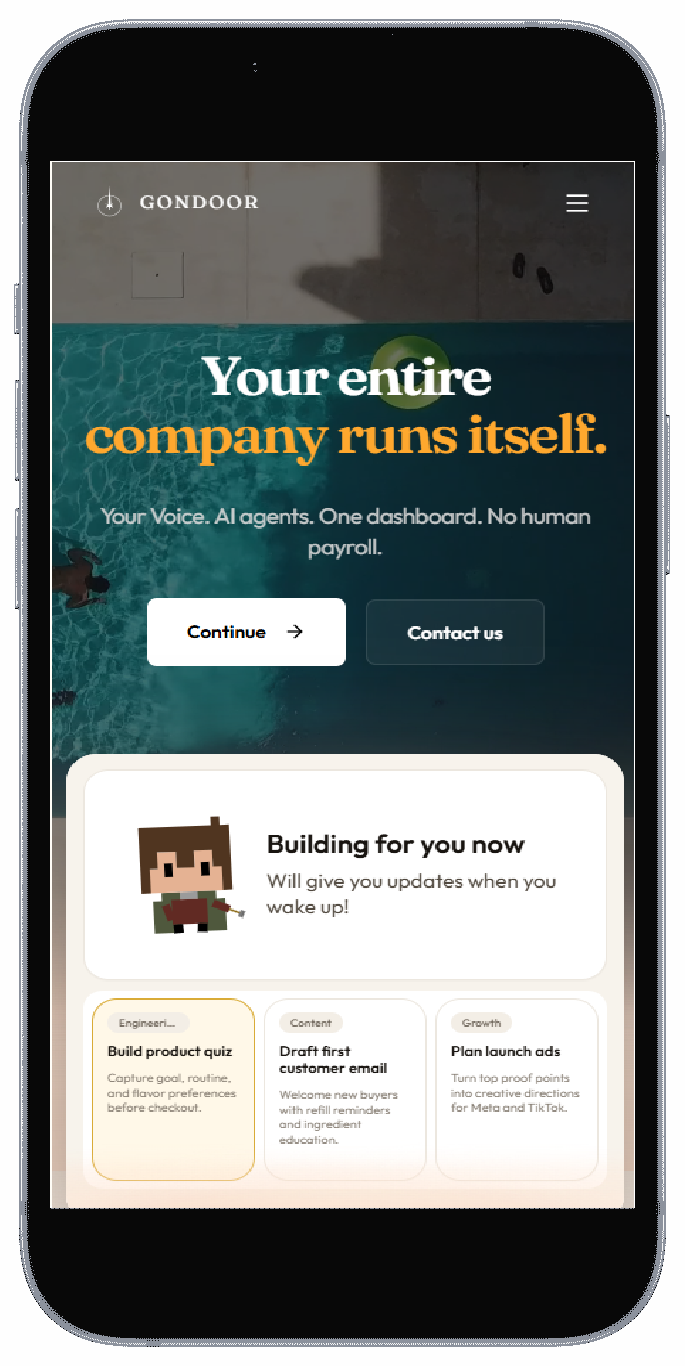
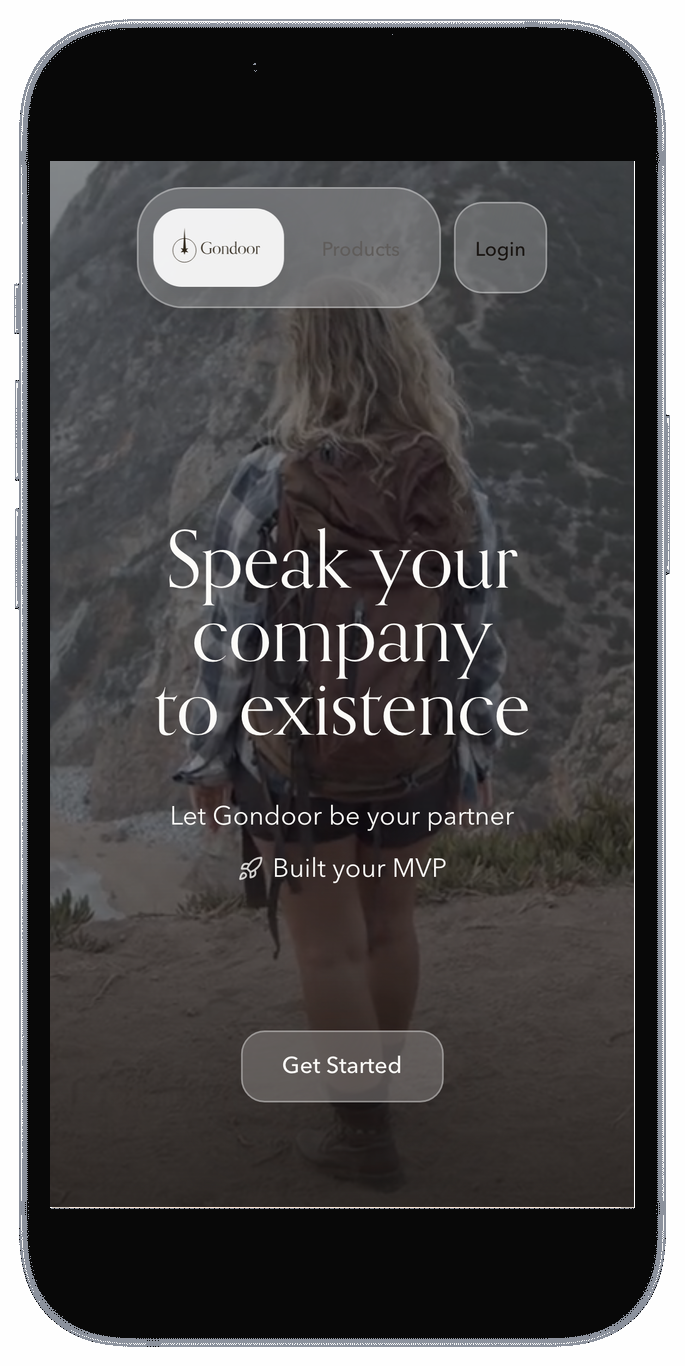
feat(projects): add Bulakenya and refresh Gondoor

diff --git a/src/components/project/ProjectData.tsx b/src/components/project/ProjectData.tsx
@@ -3,6 +3,8 @@ import imageManifest from "@/lib/generated/image-manifest.json";
 
 const gondoorDesktop = imageManifest["/work/Gondoor_Desktop.png"];
 const gondoorMobile = imageManifest["/work/Gondoor_Mobile.png"];
+const bulakenyaDesktop = imageManifest["/work/Bulakenya_Desktop.png"];
+const bulakenyaMobile = imageManifest["/work/Bulakenya_Mobile.png"];
 const dutyFreeDesktop = imageManifest["/work/Duty_Free_Desktop3.png"];
 const dutyFreeMobile = imageManifest["/work/Duty_Free_Mobile.png"];
 const futrDesktop = imageManifest["/work/Futr_Desktop5.png"];
@@ -48,6 +50,18 @@ export const projectData: ProjectType[] = [
     status: "active",
   },
   {
+    desktopImage: bulakenyaDesktop,
+    mobileImage: bulakenyaMobile,
+    category: "E-commerce",
+    name: "Bulakenya Gift Shop",
+    description:
+      "A curated online gift shop for personalized gift sets, keepsakes, and thoughtful details.",
+    technologies: ["E-commerce", "Gift Catalog", "Messenger Ordering"],
+    featured: true,
+    link: "https://www.bulakenya-giftshop.com/",
+    status: "active",
+  },
+  {
     desktopImage: dutyFreeDesktop,
     mobileImage: dutyFreeMobile,
     category: "React.js",
@@ -79,7 +93,7 @@ export const projectData: ProjectType[] = [
     description:
       "The official franchise hub for news, events, licensed merchandise, screenings, and fan experiences.",
     technologies: ["Next.js", "Web Platform"],
-    featured: true,
+    featured: false,
     link: "https://www.backtothefutr.com",
     status: "inactive",
   },
